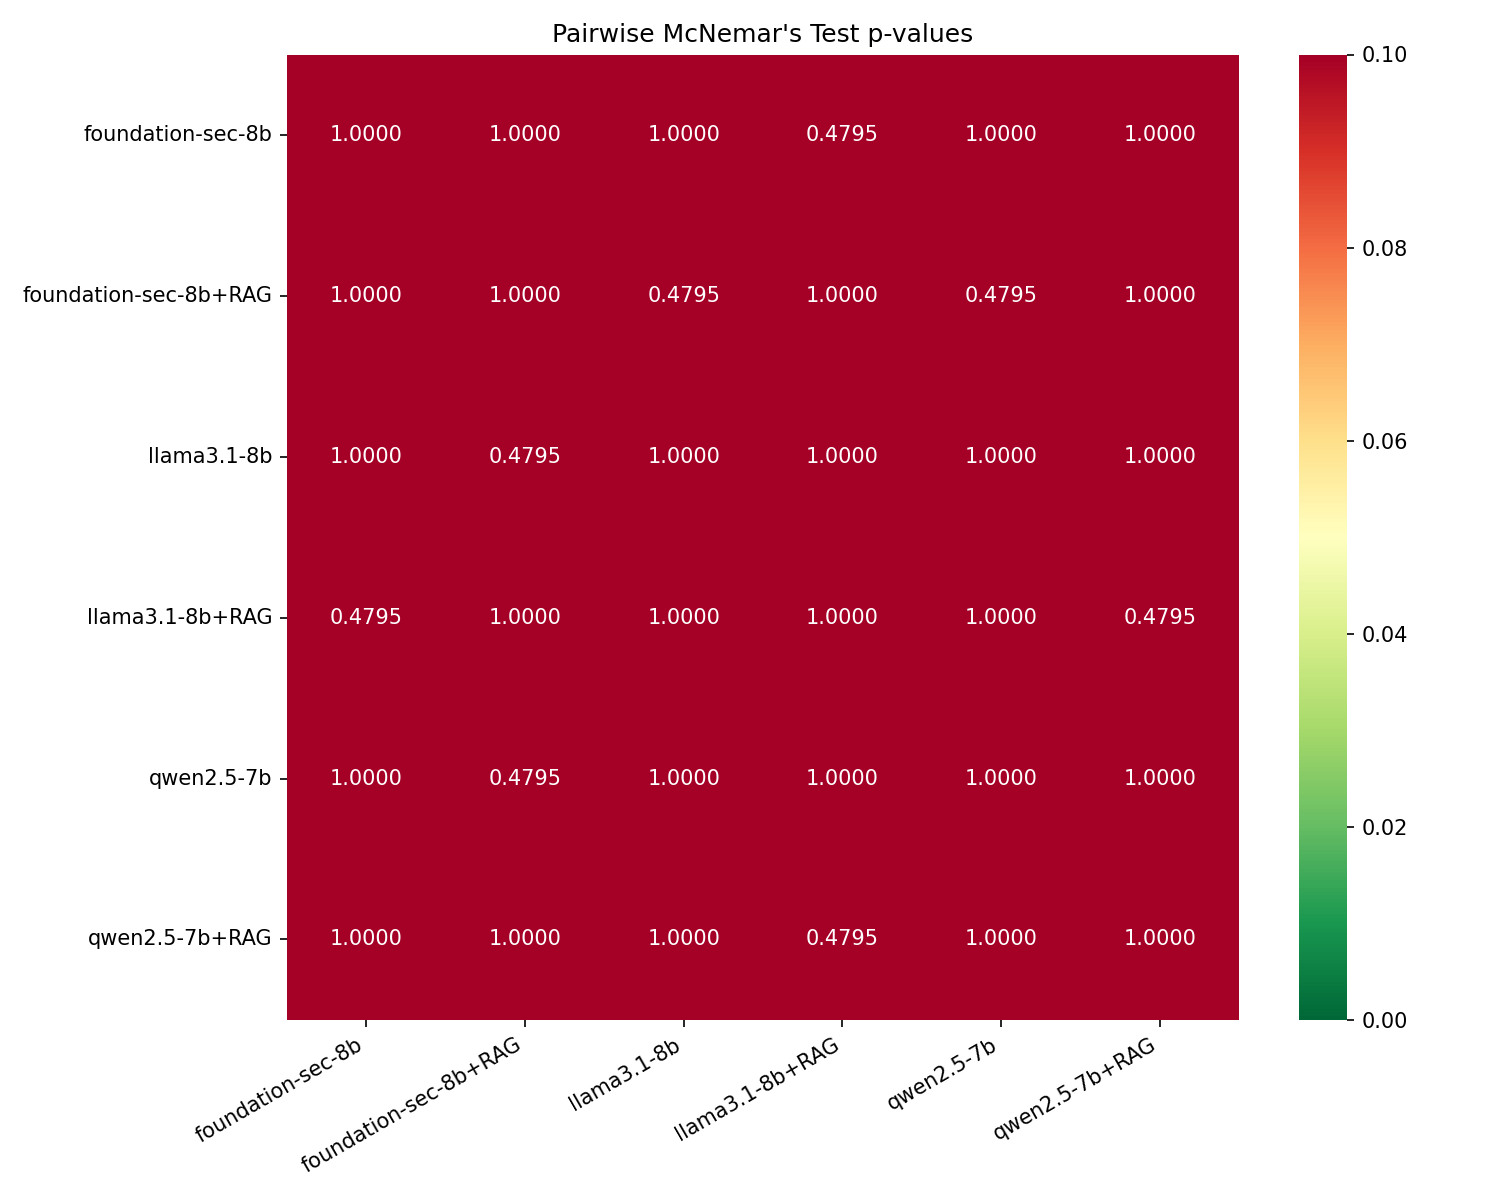
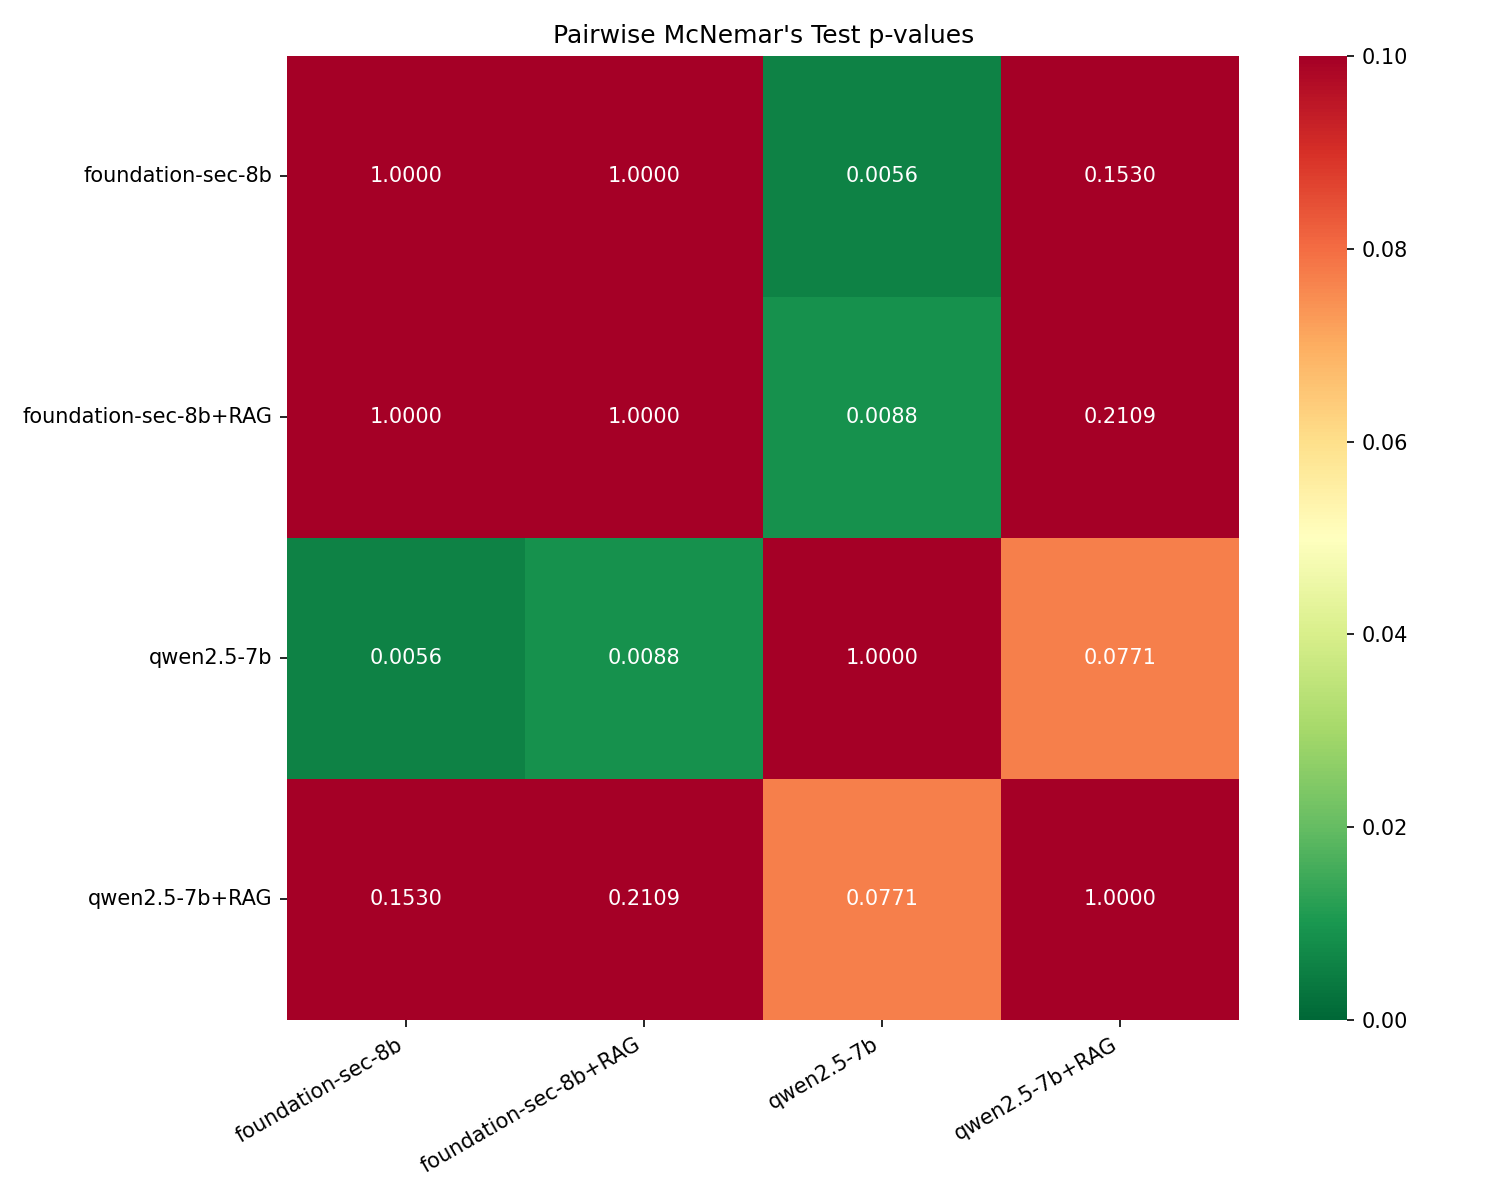
100q3r

diff --git a/src/analysis/metrics.py b/src/analysis/metrics.py
@@ -51,7 +51,10 @@ def consistency_by_setup(df: pd.DataFrame) -> pd.DataFrame:
     def _consistency(group):
         if len(group) == 0:
             return 0.0
-        most_common_count = group["extracted_answer"].value_counts().iloc[0]
+        counts = group["extracted_answer"].value_counts(dropna=False)
+        if counts.empty:
+            return 0.0
+        most_common_count = counts.iloc[0]
         return most_common_count / len(group)
 
     per_q = (

diff --git a/results/report.md b/results/report.md
@@ -4,20 +4,18 @@
 What is more crucial for medical QA accuracy: model size, domain expertise, or retrieved knowledge?
 
 ## Setup Summary
-- **Questions**: 5
+- **Questions**: 100
 - **Repetitions per question**: 3
-- **Total LLM calls**: 90
+- **Total LLM calls**: 1200
 
 ## Accuracy Results (Majority Vote)
 
 | setup_name            |   accuracy |   ci_lower |   ci_upper |   correct |   total |
 |:----------------------|-----------:|-----------:|-----------:|----------:|--------:|
-| foundation-sec-8b     |     0.8000 |     0.3755 |     0.9638 |         4 |       5 |
-| foundation-sec-8b+RAG |     0.6000 |     0.2307 |     0.8824 |         3 |       5 |
-| llama3.1-8b           |     1.0000 |     0.5655 |     1.0000 |         5 |       5 |
-| llama3.1-8b+RAG       |     0.8000 |     0.3755 |     0.9638 |         4 |       5 |
-| qwen2.5-7b            |     1.0000 |     0.5655 |     1.0000 |         5 |       5 |
-| qwen2.5-7b+RAG        |     0.8000 |     0.3755 |     0.9638 |         4 |       5 |
+| foundation-sec-8b     |     0.7800 |     0.6893 |     0.8500 |        78 |     100 |
+| foundation-sec-8b+RAG |     0.7900 |     0.7002 |     0.8583 |        79 |     100 |
+| qwen2.5-7b            |     0.9200 |     0.8500 |     0.9589 |        92 |     100 |
+| qwen2.5-7b+RAG        |     0.8600 |     0.7786 |     0.9147 |        86 |     100 |
 
 ![Accuracy Comparison](accuracy_comparison.png)
 
@@ -25,23 +23,19 @@ What is more crucial for medical QA accuracy: model size, domain expertise, or r
 
 | setup_name            |   mean_accuracy |
 |:----------------------|----------------:|
-| foundation-sec-8b     |          0.8000 |
-| foundation-sec-8b+RAG |          0.6000 |
-| llama3.1-8b           |          1.0000 |
-| llama3.1-8b+RAG       |          0.6667 |
-| qwen2.5-7b            |          1.0000 |
-| qwen2.5-7b+RAG        |          0.8000 |
+| foundation-sec-8b     |          0.7867 |
+| foundation-sec-8b+RAG |          0.7233 |
+| qwen2.5-7b            |          0.9167 |
+| qwen2.5-7b+RAG        |          0.8600 |
 
 ## Consistency (Agreement Across Repetitions)
 
 | setup_name            |   consistency |
 |:----------------------|--------------:|
-| foundation-sec-8b     |        1.0000 |
-| foundation-sec-8b+RAG |        0.9333 |
-| llama3.1-8b           |        1.0000 |
-| llama3.1-8b+RAG       |        0.8667 |
-| qwen2.5-7b            |        1.0000 |
-| qwen2.5-7b+RAG        |        1.0000 |
+| foundation-sec-8b     |        0.9533 |
+| foundation-sec-8b+RAG |        0.9200 |
+| qwen2.5-7b            |        0.9967 |
+| qwen2.5-7b+RAG        |        0.9933 |
 
 ![Consistency Comparison](consistency_comparison.png)
 
@@ -50,9 +44,7 @@ What is more crucial for medical QA accuracy: model size, domain expertise, or r
 | setup_name            |   parse_failure_rate |
 |:----------------------|---------------------:|
 | foundation-sec-8b     |               0.0000 |
-| foundation-sec-8b+RAG |               0.0667 |
-| llama3.1-8b           |               0.0000 |
-| llama3.1-8b+RAG       |               0.0000 |
+| foundation-sec-8b+RAG |               0.0600 |
 | qwen2.5-7b            |               0.0000 |
 | qwen2.5-7b+RAG        |               0.0000 |
 
@@ -60,21 +52,12 @@ What is more crucial for medical QA accuracy: model size, domain expertise, or r
 
 | setup_a               | setup_b               |   a_only_correct |   b_only_correct |   statistic |   p_value | significant   |
 |:----------------------|:----------------------|-----------------:|-----------------:|------------:|----------:|:--------------|
-| foundation-sec-8b     | foundation-sec-8b+RAG |                1 |                0 |      0.0000 |    1.0000 | False         |
-| foundation-sec-8b     | llama3.1-8b           |                0 |                1 |      0.0000 |    1.0000 | False         |
-| foundation-sec-8b     | llama3.1-8b+RAG       |                1 |                1 |      0.5000 |    0.4795 | False         |
-| foundation-sec-8b     | qwen2.5-7b            |                0 |                1 |      0.0000 |    1.0000 | False         |
-| foundation-sec-8b     | qwen2.5-7b+RAG        |                0 |                0 |      0.0000 |    1.0000 | False         |
-| foundation-sec-8b+RAG | llama3.1-8b           |                0 |                2 |      0.5000 |    0.4795 | False         |
-| foundation-sec-8b+RAG | llama3.1-8b+RAG       |                1 |                2 |      0.0000 |    1.0000 | False         |
-| foundation-sec-8b+RAG | qwen2.5-7b            |                0 |                2 |      0.5000 |    0.4795 | False         |
-| foundation-sec-8b+RAG | qwen2.5-7b+RAG        |                0 |                1 |      0.0000 |    1.0000 | False         |
-| llama3.1-8b           | llama3.1-8b+RAG       |                1 |                0 |      0.0000 |    1.0000 | False         |
-| llama3.1-8b           | qwen2.5-7b            |                0 |                0 |      0.0000 |    1.0000 | False         |
-| llama3.1-8b           | qwen2.5-7b+RAG        |                1 |                0 |      0.0000 |    1.0000 | False         |
-| llama3.1-8b+RAG       | qwen2.5-7b            |                0 |                1 |      0.0000 |    1.0000 | False         |
-| llama3.1-8b+RAG       | qwen2.5-7b+RAG        |                1 |                1 |      0.5000 |    0.4795 | False         |
-| qwen2.5-7b            | qwen2.5-7b+RAG        |                1 |                0 |      0.0000 |    1.0000 | False         |
+| foundation-sec-8b     | foundation-sec-8b+RAG |                5 |                6 |      0.0000 |    1.0000 | False         |
+| foundation-sec-8b     | qwen2.5-7b            |                4 |               18 |      7.6818 |    0.0056 | True          |
+| foundation-sec-8b     | qwen2.5-7b+RAG        |                8 |               16 |      2.0417 |    0.1530 | False         |
+| foundation-sec-8b+RAG | qwen2.5-7b            |                4 |               17 |      6.8571 |    0.0088 | True          |
+| foundation-sec-8b+RAG | qwen2.5-7b+RAG        |                8 |               15 |      1.5652 |    0.2109 | False         |
+| qwen2.5-7b            | qwen2.5-7b+RAG        |                7 |                1 |      3.1250 |    0.0771 | False         |
 
 ![Pairwise Significance](pairwise_significance.png)
 
@@ -82,6 +65,5 @@ What is more crucial for medical QA accuracy: model size, domain expertise, or r
 
 | setup_a           | setup_b               |   a_only_correct |   b_only_correct |   statistic |   p_value | significant   |
 |:------------------|:----------------------|-----------------:|-----------------:|------------:|----------:|:--------------|
-| foundation-sec-8b | foundation-sec-8b+RAG |                1 |                0 |      0.0000 |    1.0000 | False         |
-| llama3.1-8b       | llama3.1-8b+RAG       |                1 |                0 |      0.0000 |    1.0000 | False         |
-| qwen2.5-7b        | qwen2.5-7b+RAG        |                1 |                0 |      0.0000 |    1.0000 | False         |
+| foundation-sec-8b | foundation-sec-8b+RAG |                5 |                6 |      0.0000 |    1.0000 | False         |
+| qwen2.5-7b        | qwen2.5-7b+RAG        |                7 |                1 |      3.1250 |    0.0771 | False         |
